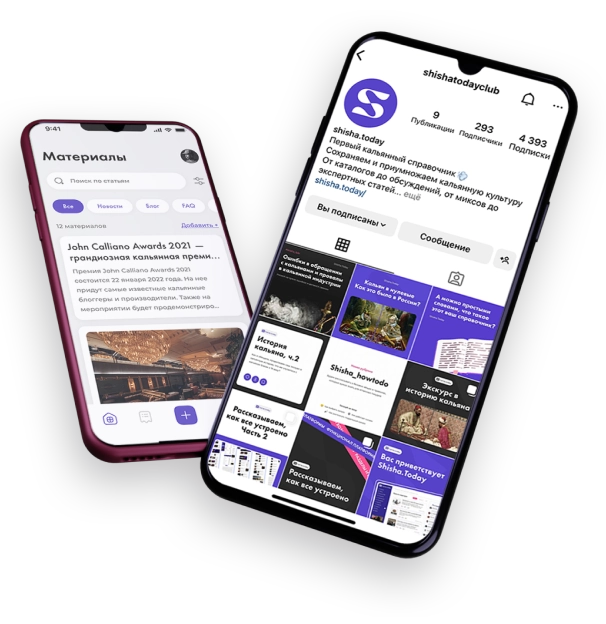
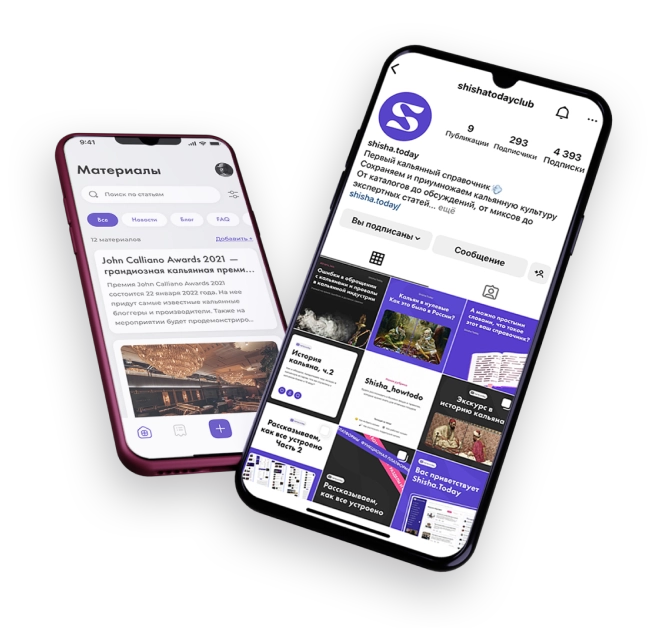
fix shadow image index

Changed region(s): [[0.0, 0.0304, 0.9505, 0.9135], [0.2376, 0.3045, 0.2673, 0.3349]]

diff --git a/src/sass/_subscription.sass b/src/sass/_subscription.sass
@@ -34,7 +34,7 @@
 		top: 0
 		bottom: 0
 		right: 20px
-		width: 404px
+		width: 433px
 	&__img
 		position: relative
 		width: 100%
